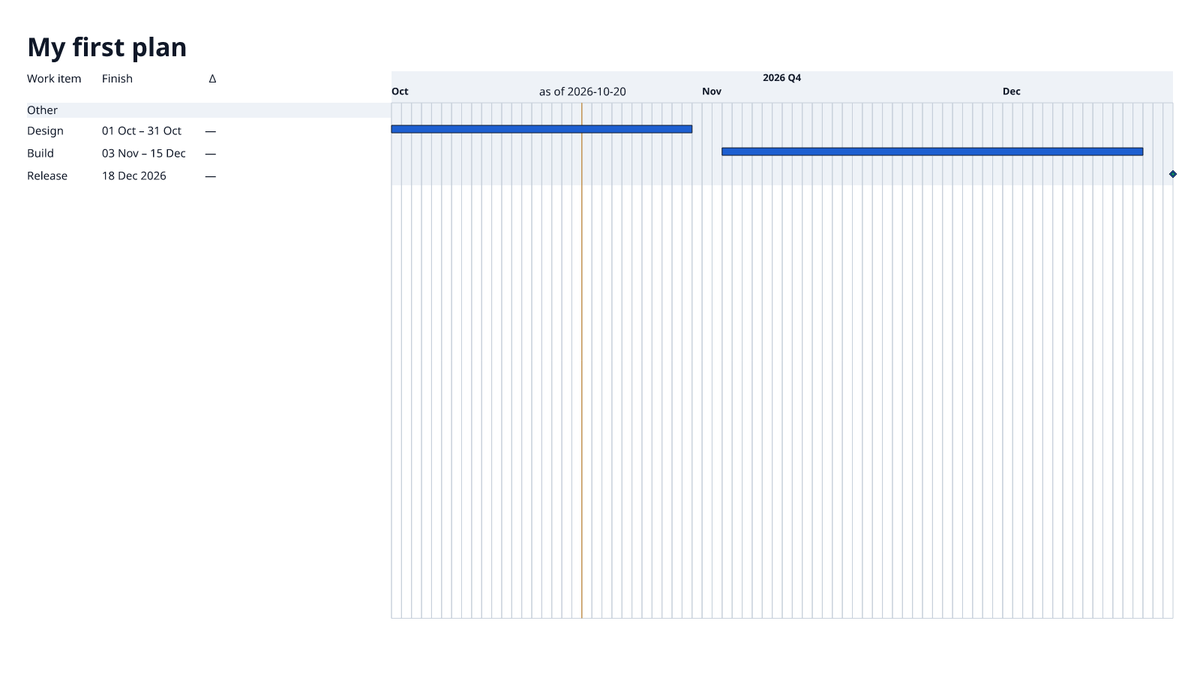
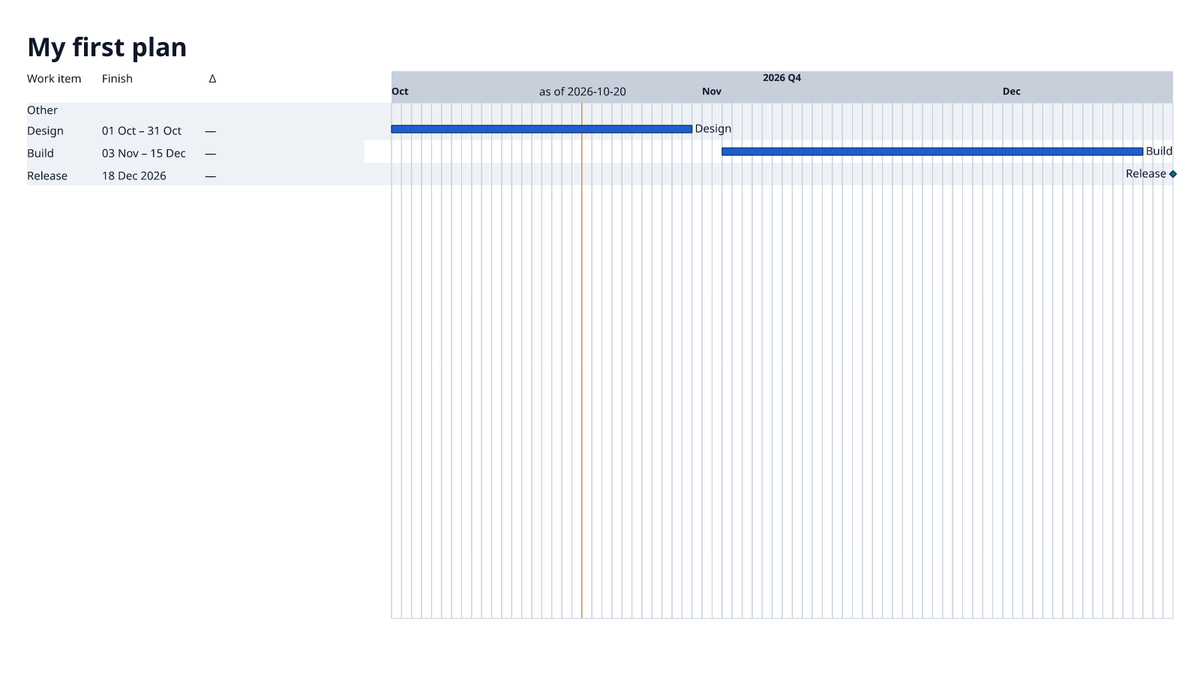
presets: add row guides and a visible axis boundary to mission-light
Row stripes now run from the table to the timeline's right edge, and each
bar is labelled with its name at its end, so a bar on the right of a wide
timeline can be matched to its task. The axis band is painted in neutral
instead of the group-band colour, so the axis visibly ends where the plot
begins. YAML only.

Refs #470

Changed region(s): [[0.3083, 0.0933, 0.9867, 0.1556], [0.925, 0.2178, 0.9867, 0.28], [0.5858, 0.1867, 0.6167, 0.2178]]

diff --git a/docs/research/presentation/preset-tuning/mission-light/README.md b/docs/research/presentation/preset-tuning/mission-light/README.md
@@ -47,3 +47,15 @@ These were tried and backed out, or could not be expressed. They are mechanism g
 - **Dependency lines start with an arrowhead by default** in 10 of the 11 shipped Themes, including `briefing`, which the bare `chrona render` default uses. A small circle at the source is the common convention; this preset uses one.
 
 Not attempted in this step: a legend for plan, actual and baseline, and removing the duplicate finish-delta labels in the plot.
+
+## Update: row guides and a visible axis boundary
+
+Added after review feedback. On a wide timeline, a bar on the right could only be matched to its task by following the row back to the table, and the axis blended into the plot.
+
+| Member | Change | Vocabulary used |
+| --- | --- | --- |
+| View + Layout | alternating row stripes run from the table to the timeline's right edge; group bands are kept to the table | `backgroundDecoration.rows: alternate`, `backgroundExtents.rowBand: both, groupBand: table` |
+| View | each bar is labelled with its name at its end, in its own row, as well as in the table | `visibility.labels.placement: plot, side: end`, fallback `[end, start, suppress]` |
+| Theme | the axis band is painted in `neutral` at full opacity, not the group-band colour, so the axis ends visibly where the plot begins | `colorBindings.axis-band-decoration.fill`, `roles.axis-band-decoration.opacity` |
+
+HALCYON-1 still renders with no warnings. The limits met while doing this are recorded in the `executive-light` README (items 2 and 4–6) and in #470: no axis baseline rule, labels not avoiding dependency lines, suppressed labels leaving no trace, and plot-and-table labels not being a declared choice.
